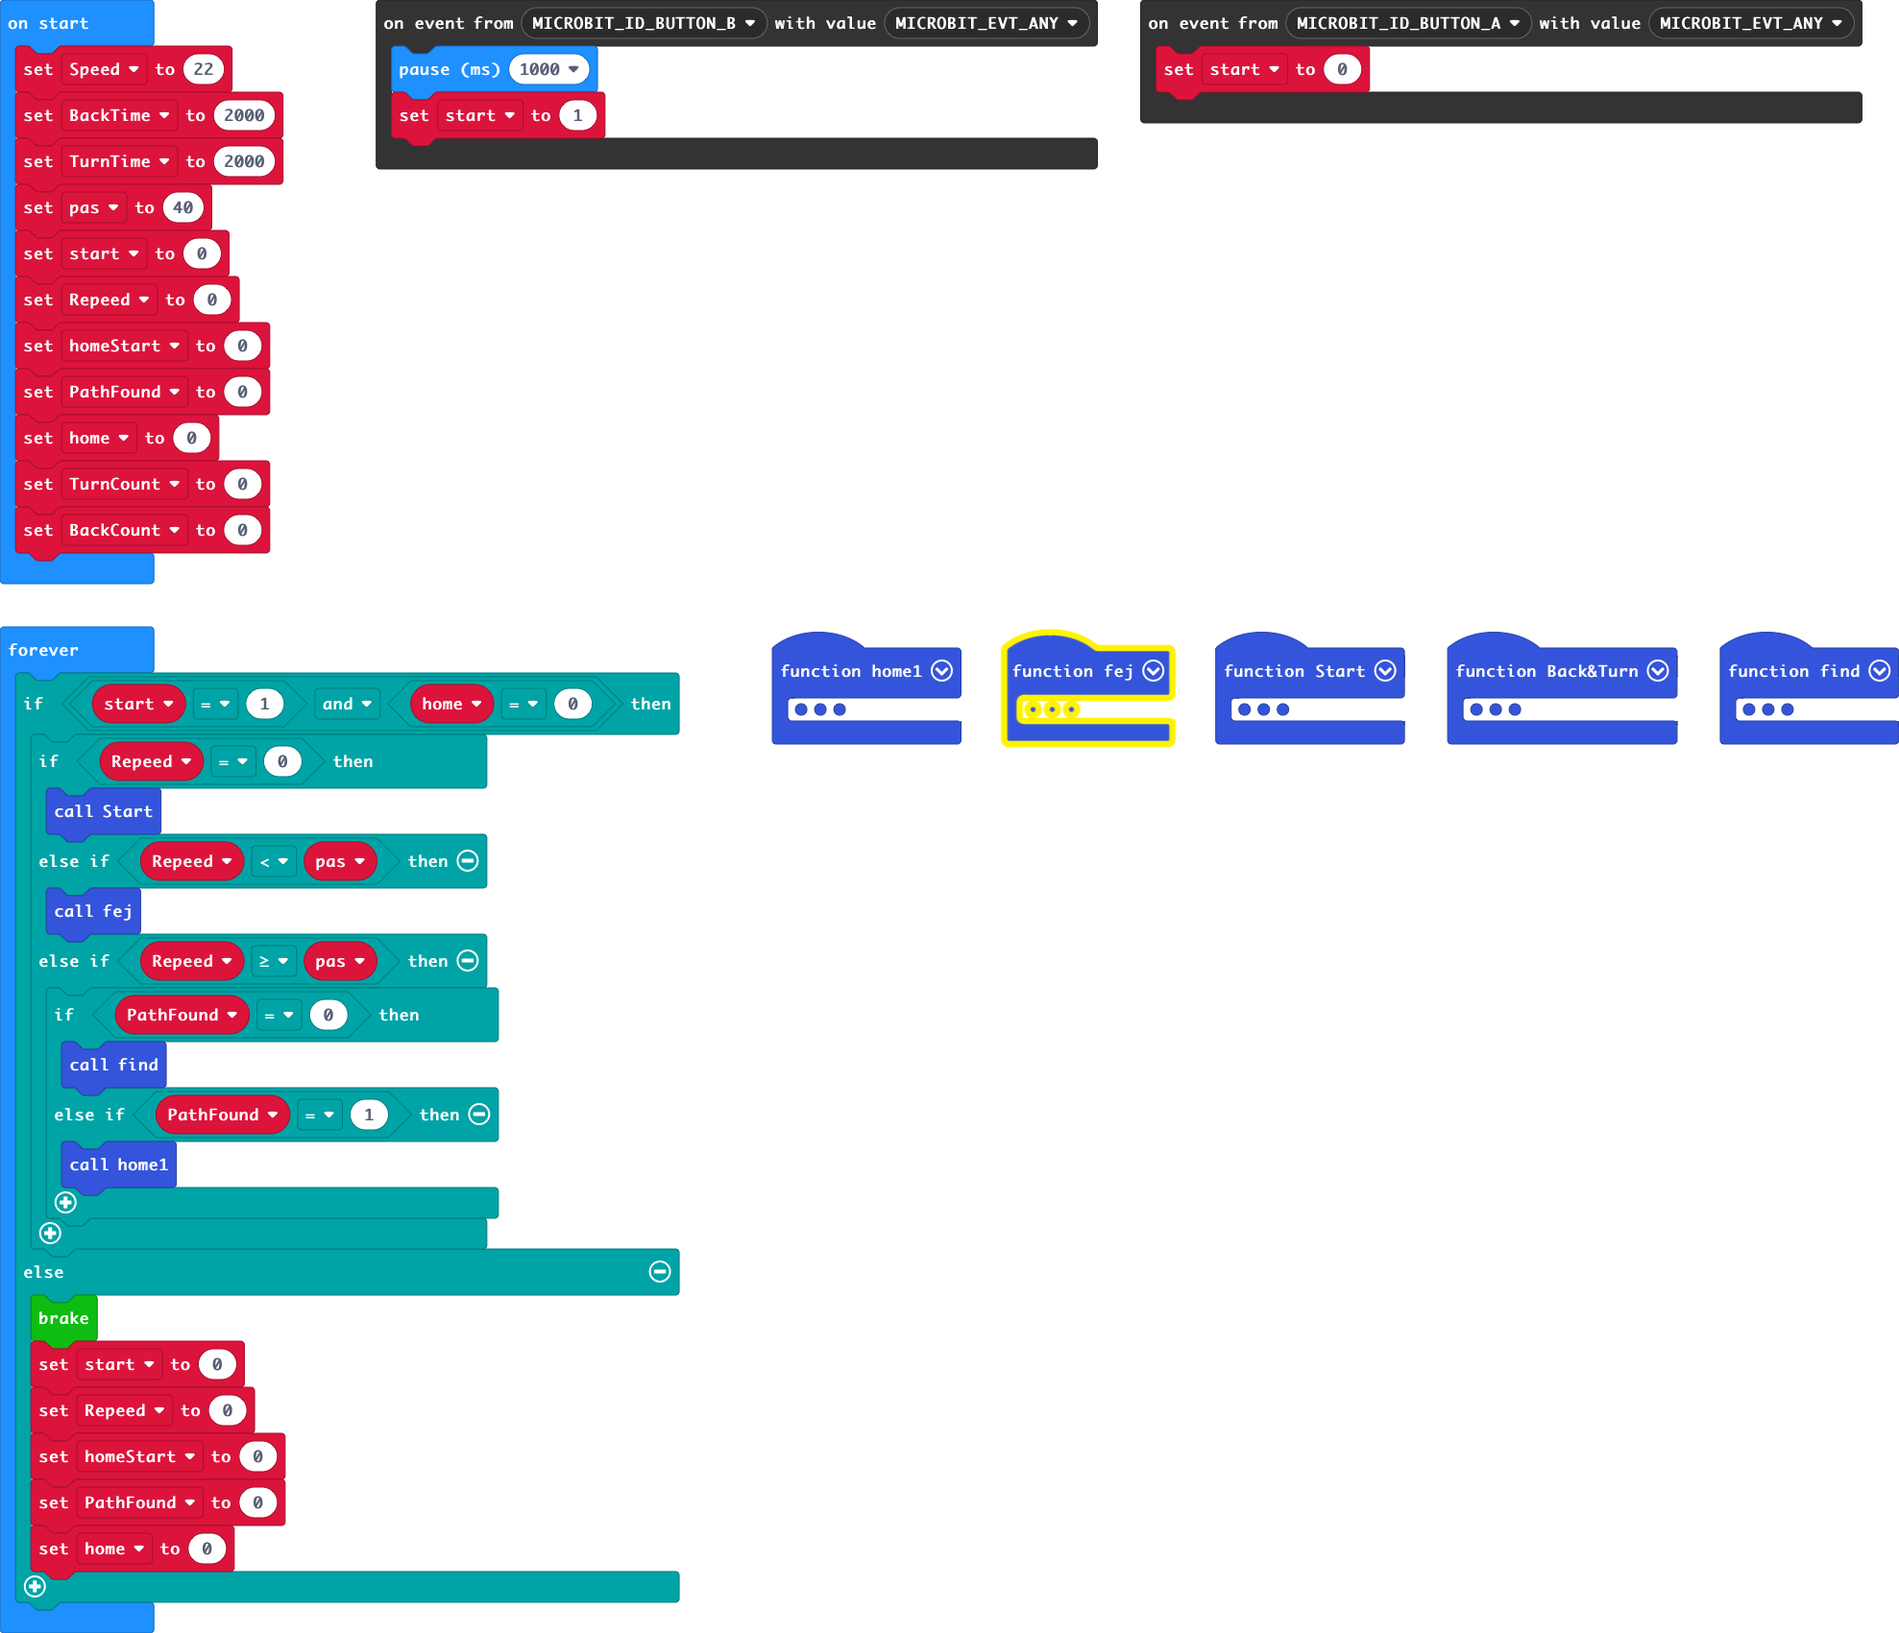
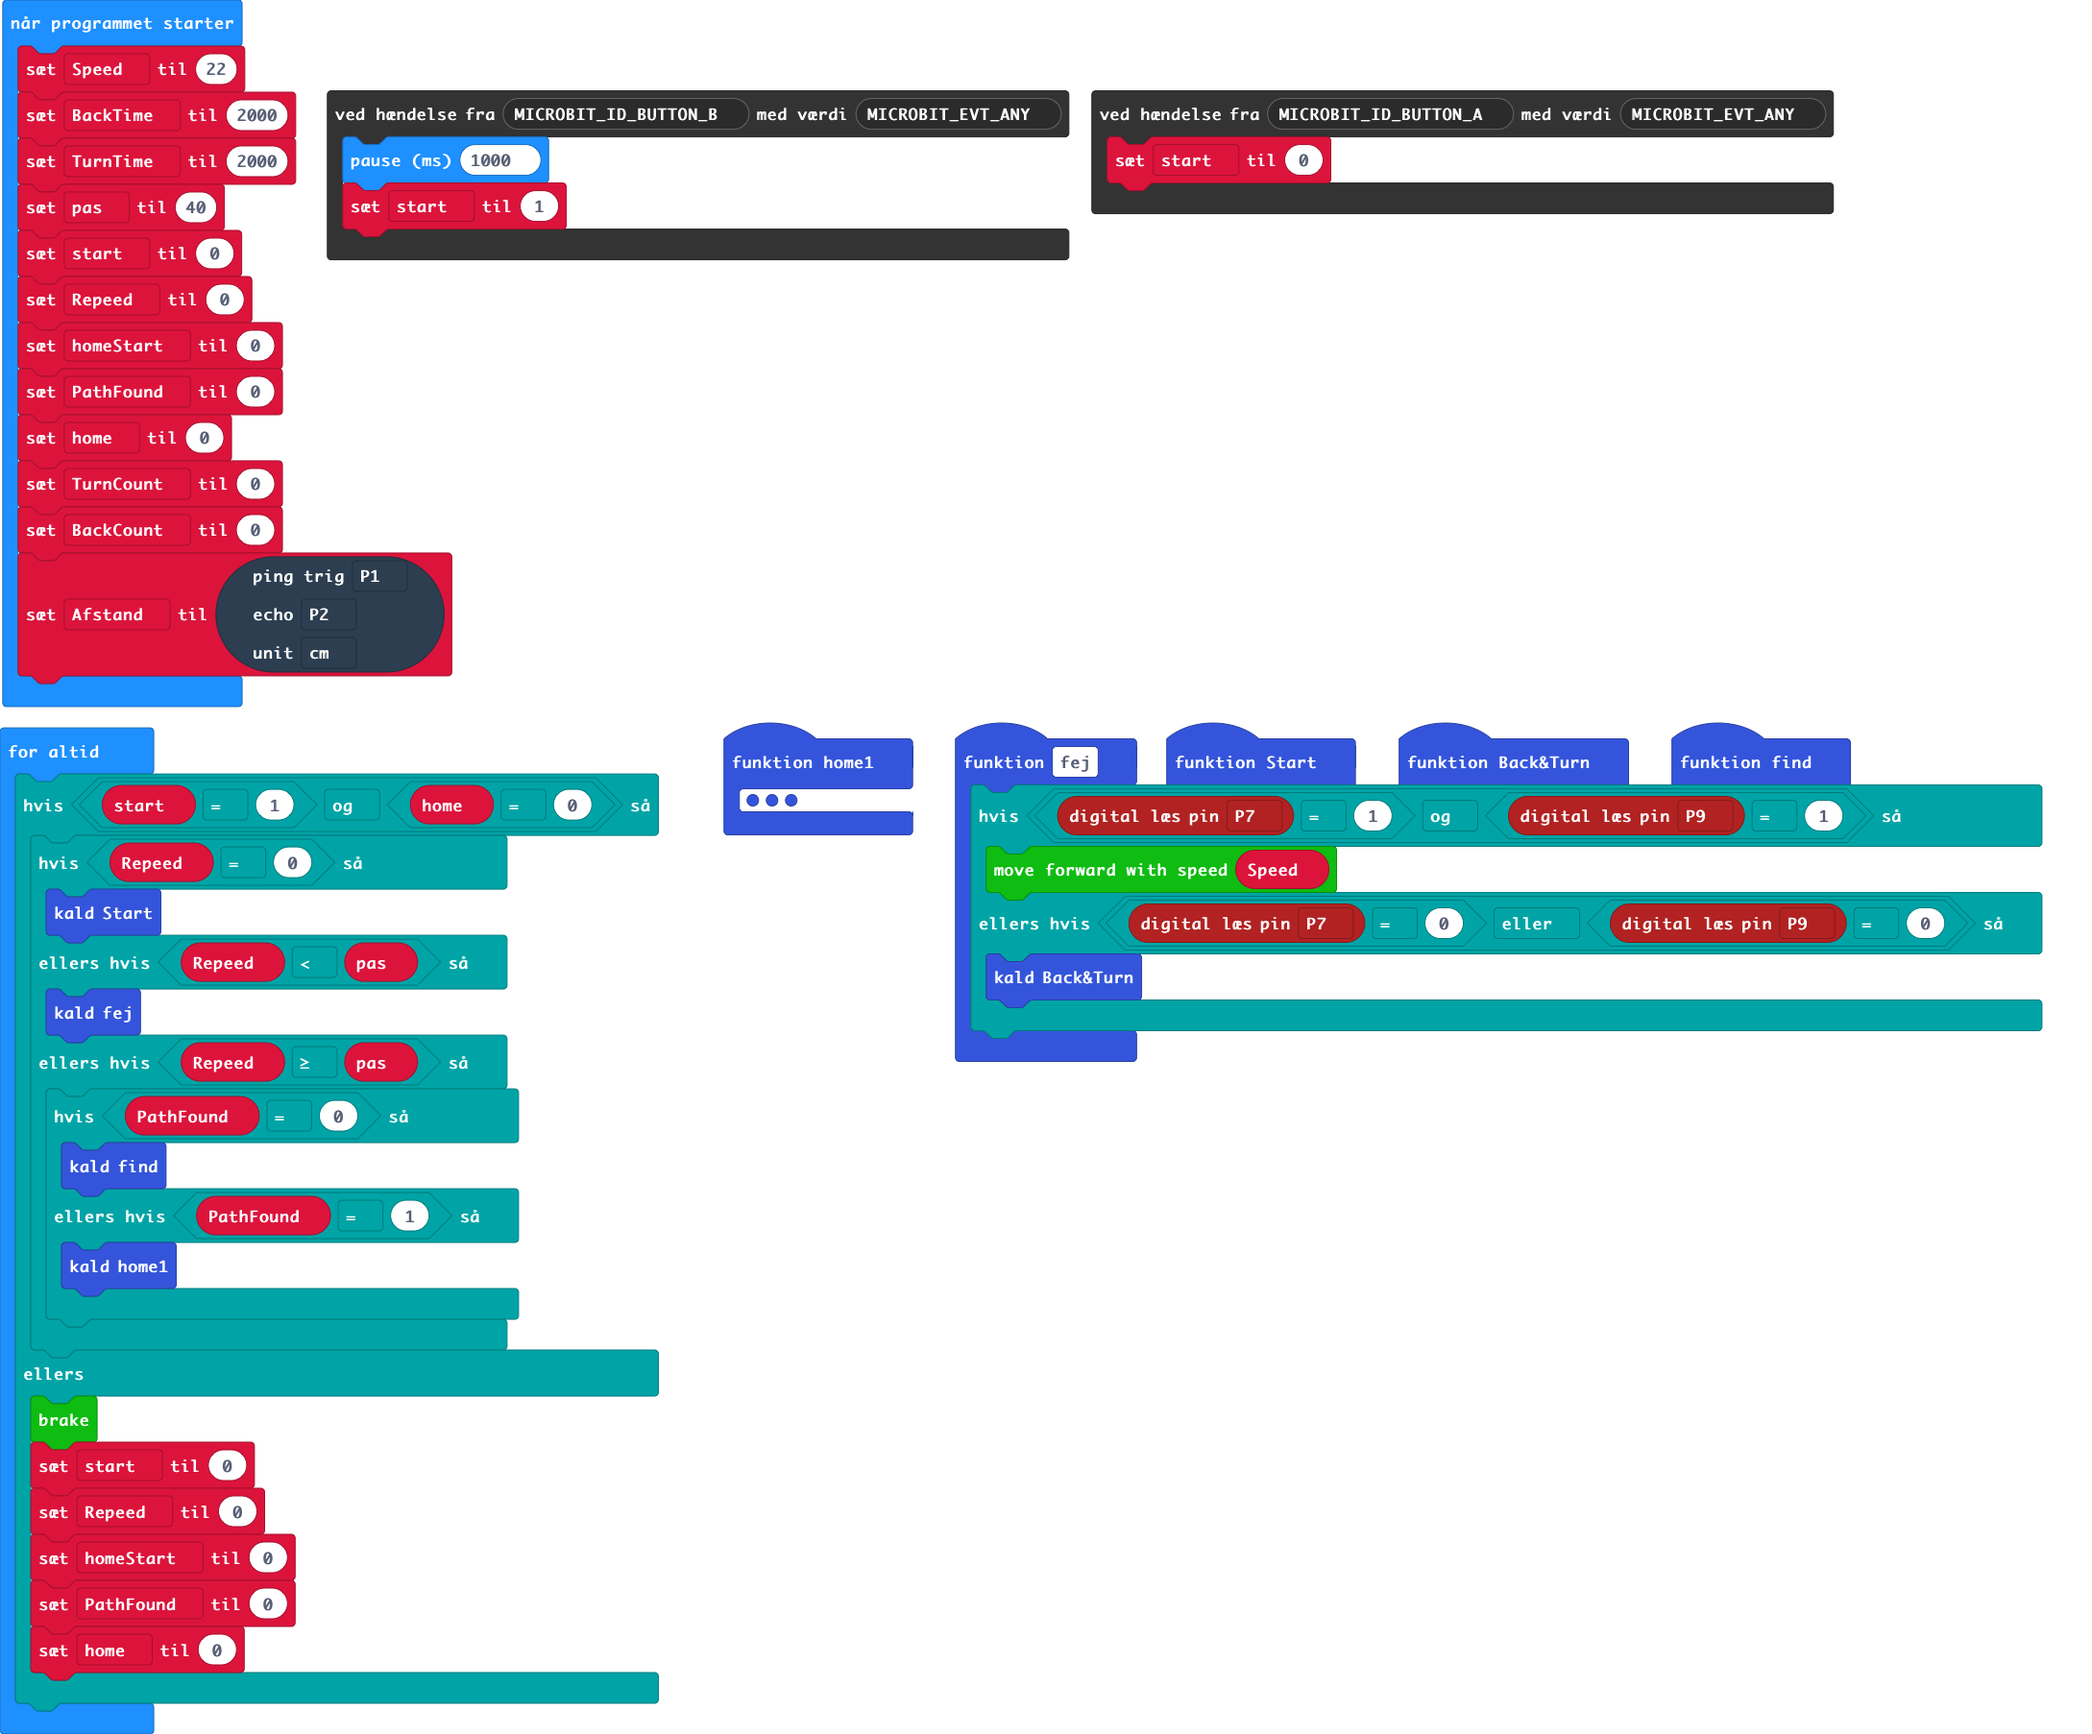
Opdater pxt.json, main.blocks, main.ts

Changed region(s): [[0.0, 0.0, 1.0, 1.0], [0.3085, 0.9347, 0.3703, 0.9971]]

diff --git a/main.ts b/main.ts
@@ -93,6 +93,11 @@ PathFound = 0
 home = 0
 TurnCount = 0
 BackCount = 0
+let Afstand = sonar.ping(
+DigitalPin.P1,
+DigitalPin.P2,
+PingUnit.Centimeters
+)
 basic.forever(function () {
     if (start == 1 && home == 0) {
         if (Repeed == 0) {
